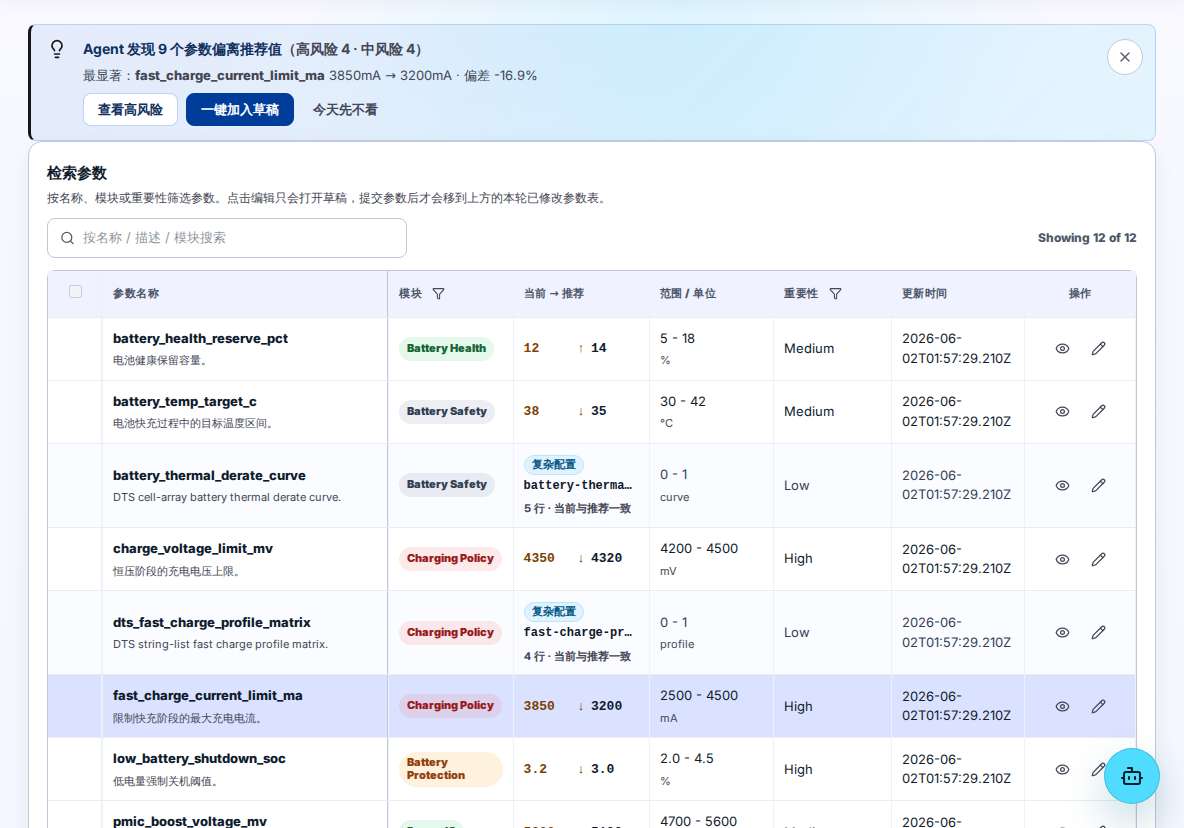
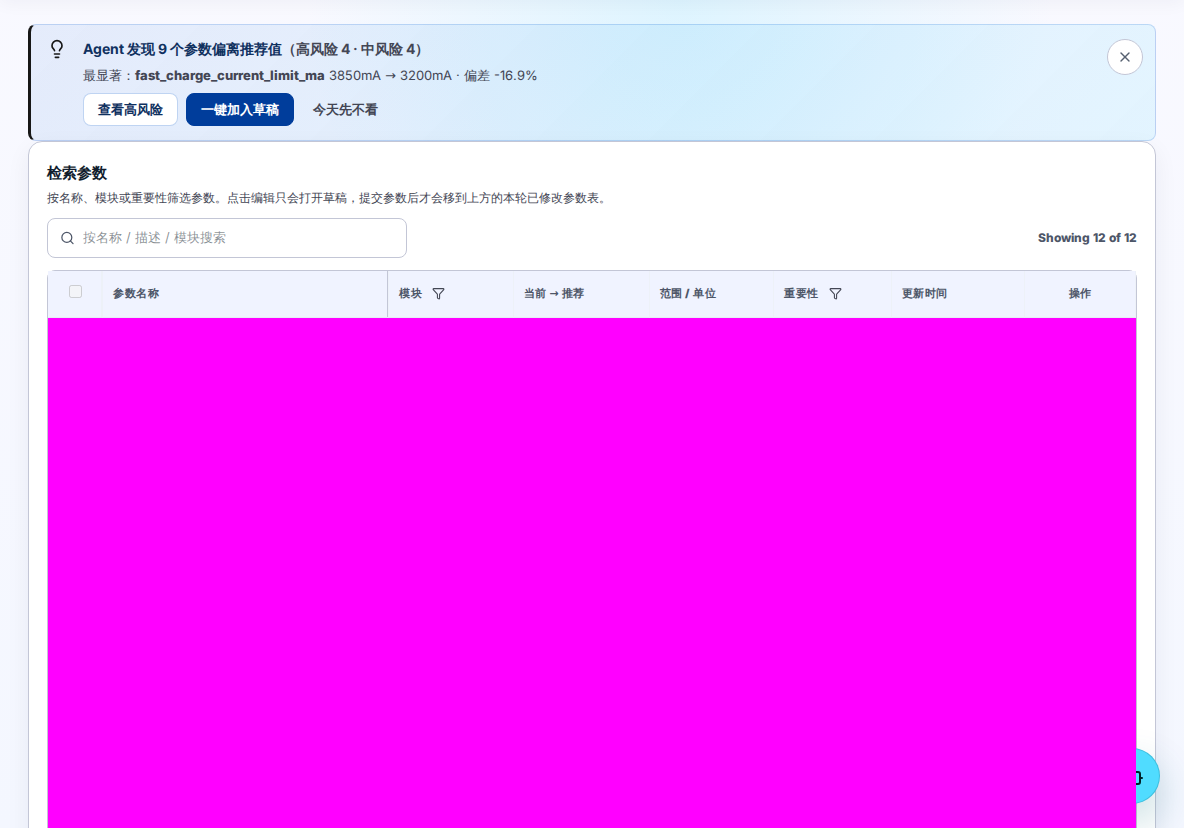
fix: align linux parameter visual baseline

diff --git a/scripts/check-quality-visual-masks.test.ts b/scripts/check-quality-visual-masks.test.ts
@@ -1,3 +1,4 @@
+import { inflateSync } from "node:zlib";
 import { readFileSync } from "node:fs";
 import { describe, expect, it } from "vitest";
 
@@ -10,4 +11,116 @@ describe("quality visual masks", () => {
     expect(helpers).toMatch(/routePath\s*===\s*"\/parameters"/);
     expect(visualSpec).toContain("stableMasks(page, route.path)");
   });
+
+  it("keeps platform parameter baselines aligned with the masked dynamic table", () => {
+    for (const platform of ["linux", "win32"]) {
+      const maskPixels = countMagentaPixels(
+        `e2e/quality/visual.quality.spec.ts-snapshots/${platform}/parameters-workbench.png`
+      );
+
+      expect(maskPixels).toBeGreaterThan(400_000);
+    }
+  });
 });
+
+function countMagentaPixels(path: string) {
+  const png = readFileSync(path);
+  const { width, height, data } = decodeRgbPng(png);
+  let count = 0;
+
+  for (let index = 0; index < width * height; index += 1) {
+    const offset = index * 3;
+    if (data[offset] === 255 && data[offset + 1] === 0 && data[offset + 2] === 255) {
+      count += 1;
+    }
+  }
+
+  return count;
+}
+
+function decodeRgbPng(png: Buffer) {
+  const width = png.readUInt32BE(16);
+  const height = png.readUInt32BE(20);
+  const bitDepth = png[24];
+  const colorType = png[25];
+  const chunks: Buffer[] = [];
+  let cursor = 33;
+
+  if (bitDepth !== 8 || colorType !== 2) {
+    throw new Error(`Unsupported PNG format for visual mask check: bitDepth=${bitDepth}; colorType=${colorType}`);
+  }
+
+  while (cursor < png.length) {
+    const length = png.readUInt32BE(cursor);
+    const type = png.subarray(cursor + 4, cursor + 8).toString("ascii");
+    const dataStart = cursor + 8;
+
+    if (type === "IDAT") {
+      chunks.push(png.subarray(dataStart, dataStart + length));
+    }
+
+    cursor = dataStart + length + 4;
+  }
+
+  const inflated = inflateSync(Buffer.concat(chunks));
+  const stride = width * 3;
+  const bytesPerPixel = 3;
+  const data = Buffer.alloc(width * height * 3);
+  let sourceOffset = 0;
+
+  for (let row = 0; row < height; row += 1) {
+    const filter = inflated[sourceOffset];
+    const rowStart = row * stride;
+    const rawRow = inflated.subarray(sourceOffset + 1, sourceOffset + 1 + stride);
+
+    decodeScanline(filter, rawRow, data, rowStart, stride, bytesPerPixel);
+    sourceOffset += stride + 1;
+  }
+
+  return { width, height, data };
+}
+
+function decodeScanline(filter: number, rawRow: Buffer, output: Buffer, rowStart: number, stride: number, bytesPerPixel: number) {
+  const previousRowStart = rowStart - stride;
+
+  for (let column = 0; column < stride; column += 1) {
+    const left = column >= bytesPerPixel ? output[rowStart + column - bytesPerPixel] : 0;
+    const up = previousRowStart >= 0 ? output[previousRowStart + column] : 0;
+    const upLeft = previousRowStart >= 0 && column >= bytesPerPixel ? output[previousRowStart + column - bytesPerPixel] : 0;
+    const raw = rawRow[column];
+    let value: number;
+
+    switch (filter) {
+      case 0:
+        value = raw;
+        break;
+      case 1:
+        value = raw + left;
+        break;
+      case 2:
+        value = raw + up;
+        break;
+      case 3:
+        value = raw + Math.floor((left + up) / 2);
+        break;
+      case 4:
+        value = raw + paethPredictor(left, up, upLeft);
+        break;
+      default:
+        throw new Error(`Unsupported PNG filter ${filter}; visual mask check supports PNG filters 0-4.`);
+    }
+
+    output[rowStart + column] = value & 0xff;
+  }
+}
+
+function paethPredictor(left: number, up: number, upLeft: number) {
+  const estimate = left + up - upLeft;
+  const distanceLeft = Math.abs(estimate - left);
+  const distanceUp = Math.abs(estimate - up);
+  const distanceUpLeft = Math.abs(estimate - upLeft);
+
+  if (distanceLeft <= distanceUp && distanceLeft <= distanceUpLeft) return left;
+  if (distanceUp <= distanceUpLeft) return up;
+  return upLeft;
+}